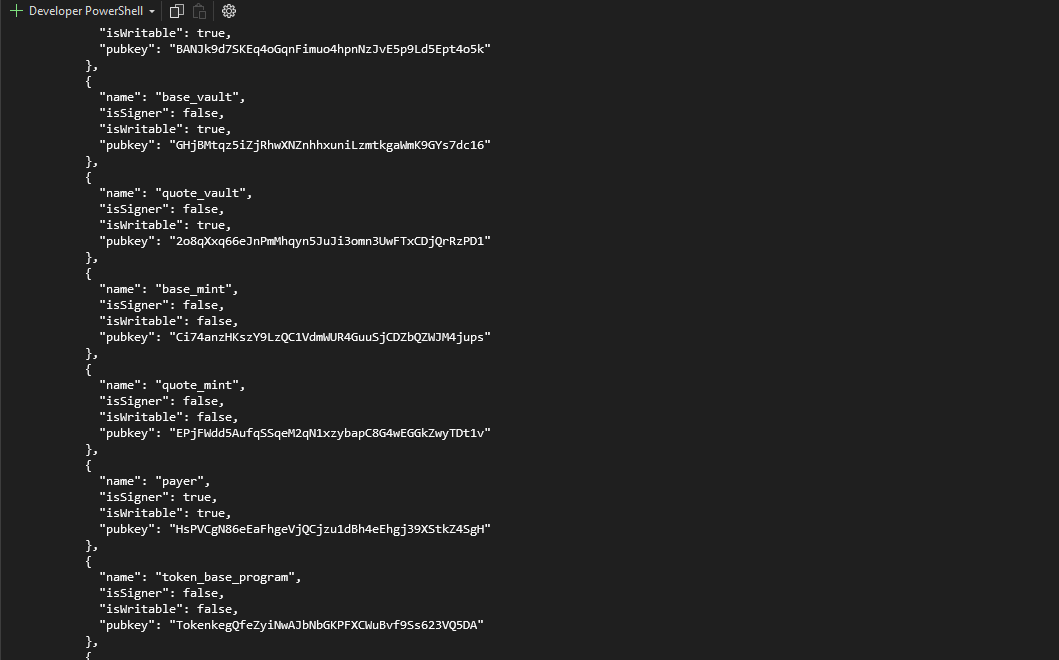
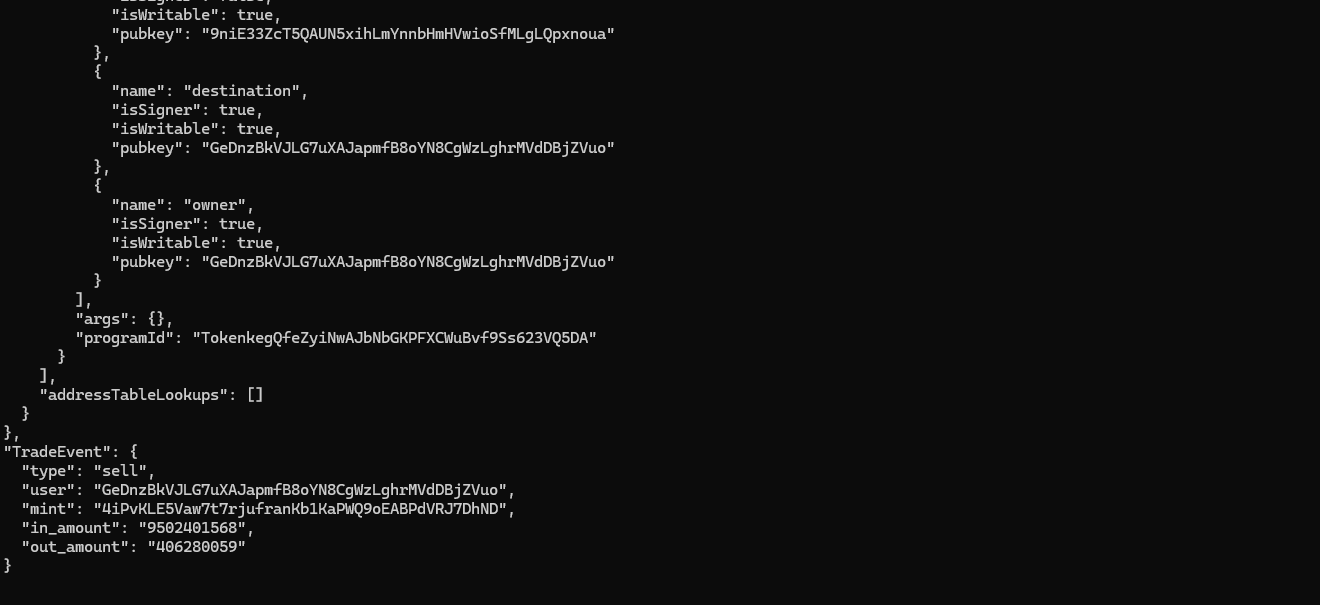
Meteora Buy Sell Events

Changed region(s): [[0.0312, 0.0893, 0.4674, 0.6843], [0.0, 0.714, 0.4674, 0.9521], [0.0, 0.0, 0.4674, 0.0893]]

diff --git a/Meteora/Typescript/stream_meteora_dbc_and_detect_buy_sell_events/README.md b/Meteora/Typescript/stream_meteora_dbc_and_detect_buy_sell_events/README.md
@@ -1,16 +1,13 @@
 <a id="readme-top"></a>
 
-# Streaming Meteora DBC transaction using gRPC and parsing instructions in Typescript
+# Streaming Meteora DBC Buy Sell transaction with gRPC.
 
-This project streams Meteora Dynamic Bonding Curve (DBC) transactions via gRPC, 
-parsing both Meteora DBC and Token Program instructions in real time.
+This project provides real-time streaming and decoding of Meteora Dynamic Bonding Curve (DBC) transactions on the Solana blockchain via gRPC. By tracking live buy and sell events from both the Meteora DBC and Token Program, it offers deep insights into liquidity movements and market behavior.
 
-It powers transactions on Jup Studio Launchpad by decoding 
-dynamic bonding curve mechanics—where activity adjusts
-dynamically with demand—enabling transparent, efficient execution.
+ The system interprets dynamic bonding curve mechanics—where pricing adjusts based on demand and volume—enabling transparent, efficient trade execution.
 
-Parsed data is structured for seamless processing and analysis,
-unlocking real-time insights into Solana-based transaction flows.
+Parsed data is structured for seamless downstream processing and analysis, making it ideal for developers, traders, and analysts looking to understand real-time DeFi activity on Solana. Unlock actionable insights into user behavior, liquidity flow, and trading dynamics across the Meteora ecosystem.
+
 
 ![screenshot](assets/meteora-dbc.png?raw=true "Screenshot")
 
@@ -19,7 +16,7 @@ unlocking real-time insights into Solana-based transaction flows.
 1. **Clone the repository:**
    ```bash
    git clone https://github.com/Shyft-to/solana-defi.git
-   cd Meteora/Typescript/stream_and_parse_meteora_dbc_transactions
+   cd Meteora/Typescript/stream_meteora_dbc_and_detect_buy_sell_events
    ```
 
 2. **Install Dependencies:**
